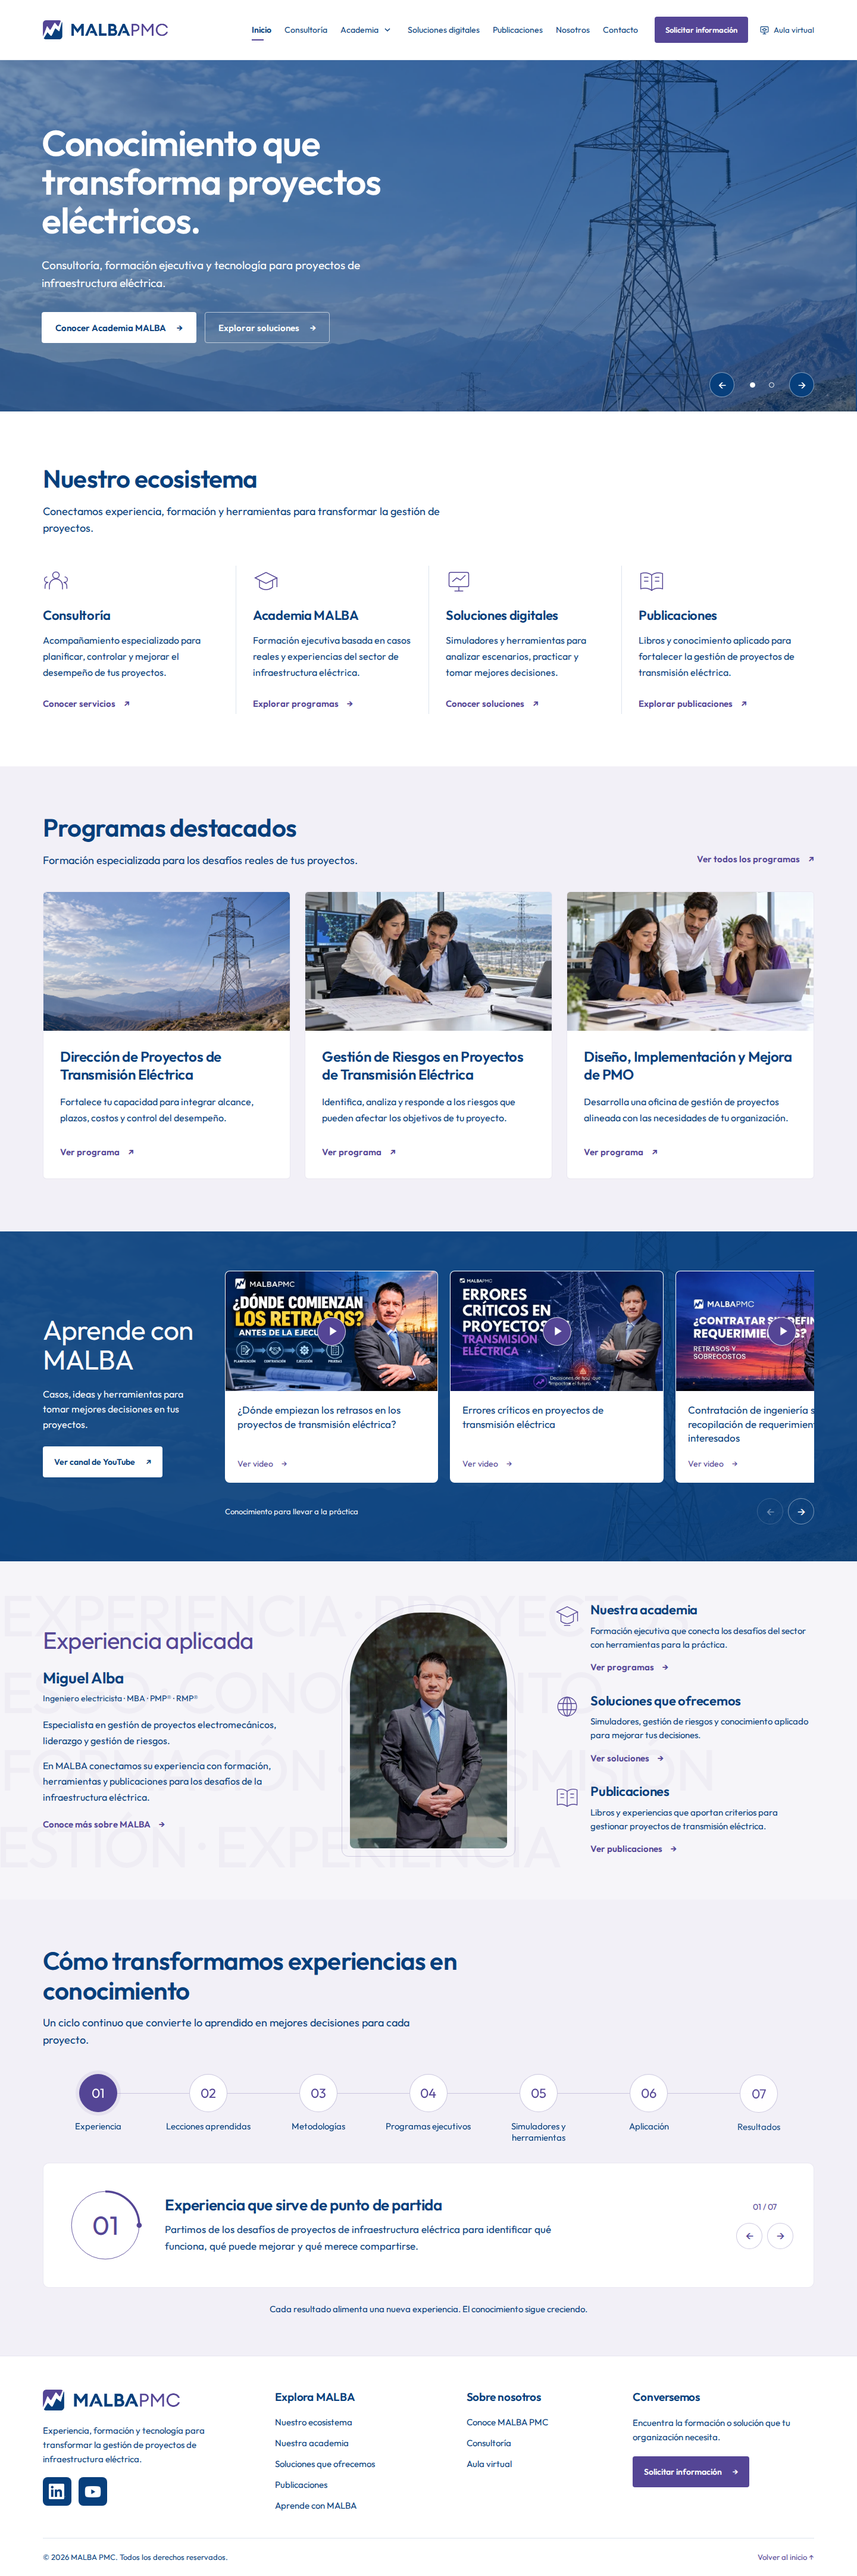
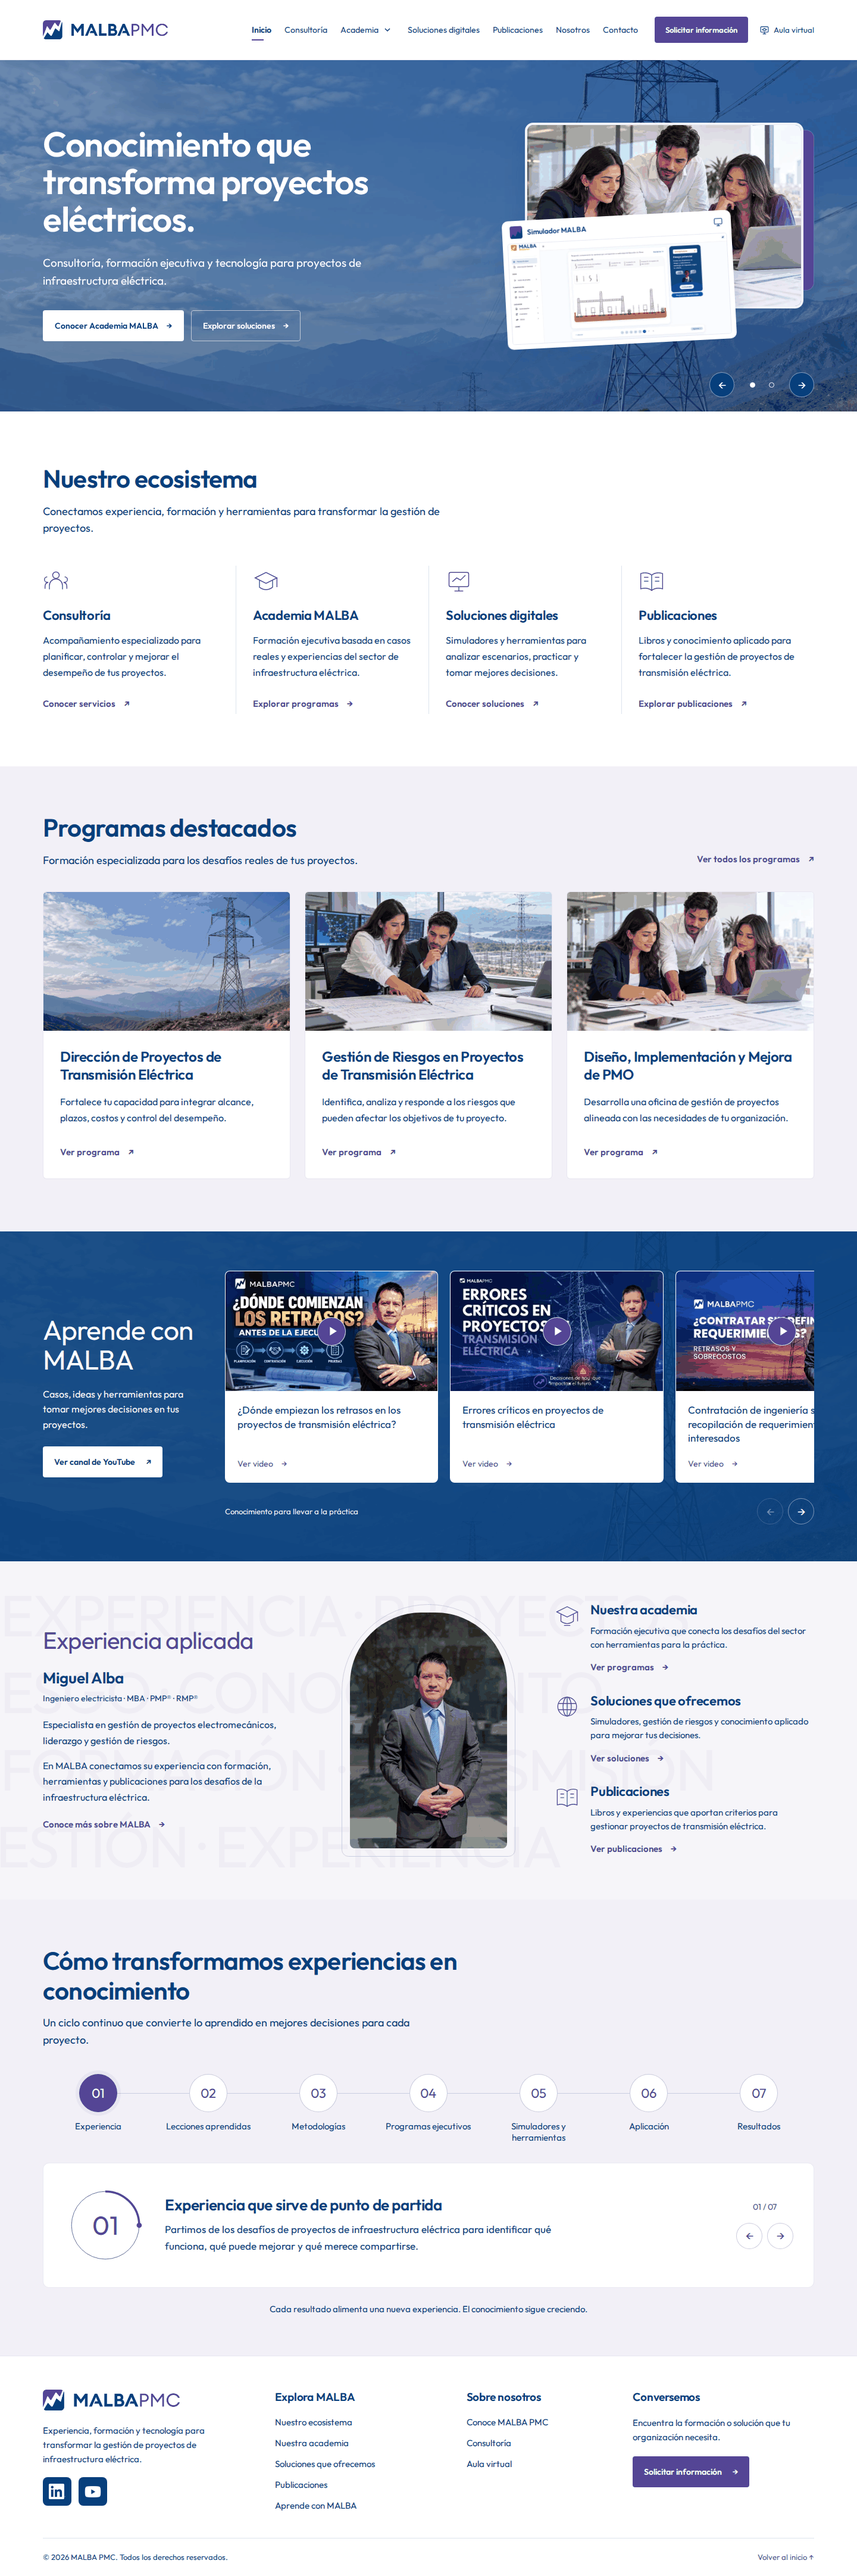
Add a visual showcase to the MALBA homepage hero

diff --git a/home-sections.css b/home-sections.css
@@ -894,3 +894,50 @@ body:has(#video-dialog[open]) { overflow: hidden; }
   .footer-contact .button { margin-top: 6px; width: fit-content; max-width: 100%; }
   .footer-bottom { font-size: 12px; gap: 14px; flex-direction: column; align-items: flex-start; padding: 20px 0; }
 }
+/* Home hero: professional photography paired with the actual MALBA simulator. */
+.hero-with-showcase .hero-copy { display: grid; grid-template-columns: 1.18fr 1fr; align-items: center; gap: 54px; }
+.hero-with-showcase .hero-copy-inner { min-width: 0; position: relative; z-index: 1; }
+.hero-with-showcase #hero-title { font-size: clamp(38px,4.05vw,60px); }
+.hero-with-showcase .hero-actions { gap: 12px; }
+.hero-with-showcase .hero-actions .button { font-size: 14px; padding: 0 19px; gap: 14px; }
+.hero-showcase { position: relative; width: 100%; max-width: 520px; height: 372px; justify-self: end; }
+.hero-showcase::before { content: ""; position: absolute; top: 12px; right: 0; width: 82%; height: 72%; background: var(--purple); border: 1px solid rgba(255,255,255,.22); border-radius: 14px; }
+.hero-showcase-scene { position: absolute; top: 0; right: 18px; width: 90%; aspect-ratio: 1.5; display: block; border: 4px solid rgba(255,255,255,.92); border-radius: 14px; overflow: hidden; box-shadow: 0 16px 35px rgba(7,63,124,.2); }
+.hero-showcase-scene img { display: block; width: 100%; height: 100%; object-fit: cover; object-position: center; }
+.hero-showcase-product { position: absolute; left: 0; bottom: 0; width: 74%; padding: 0 8px 8px; border-radius: 10px; background: var(--white); color: var(--blue); box-shadow: 0 18px 40px rgba(7,63,124,.24); transform: rotate(-3deg); transform-origin: center; animation: malba-showcase-arrive .65s ease both; }
+.hero-showcase-bar { display: flex; align-items: center; gap: 8px; height: 38px; padding: 0 5px; font-size: 12px; font-weight: 600; }
+.hero-showcase-mark { display: grid; place-items: center; width: 21px; height: 21px; border-radius: 4px; color: var(--white); background: var(--purple); }
+.hero-showcase-mark img { display: block; width: 100%; height: 100%; object-fit: contain; }
+.hero-showcase-screen { margin-left: auto; width: 17px; height: 17px; }
+.hero-showcase-product > img { display: block; width: 100%; height: auto; aspect-ratio: 1100/508; border: 1px solid rgba(7,63,124,.1); border-radius: 4px; }
+@keyframes malba-showcase-arrive { from { opacity: 0; transform: translateY(16px) rotate(-3deg); } to { opacity: 1; transform: translateY(0) rotate(-3deg); } }
+@media (max-width: 1130px) and (min-width: 761px) {
+  .hero-with-showcase .hero-copy { gap: 32px; grid-template-columns: 1.2fr 1fr; }
+  .hero-with-showcase #hero-title { font-size: clamp(32px,4.05vw,46px); }
+  .hero-showcase { height: 310px; }
+  .hero-with-showcase .hero-actions .button { font-size: 13px; padding: 0 14px; gap: 8px; min-height: 48px; }
+}
+@media (max-width: 900px) and (min-width: 761px) {
+  .hero-showcase { height: 260px; }
+  .hero-with-showcase .hero-copy { gap: 24px; }
+  .hero-with-showcase .hero-copy p { font-size: 17px; }
+}
+@media (max-width: 760px) {
+  .hero-with-showcase .hero-copy { grid-template-columns: 1fr; gap: 24px; padding-top: 38px; padding-bottom: 76px; }
+  .hero-with-showcase #hero-title { font-size: clamp(26px,7vw,48px); }
+  .hero-with-showcase .hero-actions { margin-top: 24px; }
+  .hero-with-showcase .hero-actions .button { font-size: 13px; padding: 0 14px; gap: 10px; min-height: 46px; }
+  .hero-showcase { height: 185px; max-width: 390px; justify-self: center; }
+  .hero-showcase-scene { width: 64%; right: 4px; aspect-ratio: 1.4; border-width: 3px; border-radius: 10px; }
+  .hero-showcase::before { width: 60%; height: 76%; top: 10px; right: 0; border-radius: 10px; }
+  .hero-showcase-product { width: 62%; max-width: 230px; bottom: 0; left: 4px; border-radius: 8px; padding: 0 6px 6px; }
+  .hero-showcase-bar { height: 29px; font-size: 10px; gap: 6px; }
+  .hero-showcase-mark { width: 17px; height: 17px; }
+  .hero-showcase-screen { width: 14px; height: 14px; }
+}
+@media (max-width: 359px) {
+  .hero-showcase { height: 160px; }
+}
+@media (prefers-reduced-motion: reduce) {
+  .hero-showcase-product { animation: none; }
+}

diff --git a/index.html b/index.html
@@ -163,7 +163,7 @@
           aria-label="Desliza para explorar el banner"
         >
           <section
-            class="hero hero-slide"
+            class="hero hero-slide hero-with-showcase"
             role="group"
             aria-roledescription="diapositiva"
             aria-label="1 de 2: MALBA PMC"
@@ -187,6 +187,16 @@
                     >Conocer Academia MALBA <span aria-hidden="true">→</span></a
                   >
                   <a class="button button-outline" href="#soluciones">Explorar soluciones <span aria-hidden="true">→</span></a>
+                </div>
+              </div>
+              <div class="hero-showcase" aria-hidden="true">
+                <picture class="hero-showcase-scene">
+                  <source media="(max-width: 760px)" srcset="assets/programs/pmo-480.webp">
+                  <img src="assets/programs/pmo-960.webp" width="960" height="540" alt="" decoding="async">
+                </picture>
+                <div class="hero-showcase-product">
+                  <div class="hero-showcase-bar"><span class="hero-showcase-mark"><img src="assets/favicon.png" width="21" height="21" alt="" decoding="async"></span><span>Simulador MALBA</span><svg class="hero-showcase-screen" viewBox="0 0 24 24" fill="none" stroke="currentColor" stroke-width="1.5"><rect x="3" y="4" width="18" height="13" rx="2"/><path d="M8 21h8m-4-4v4"/></svg></div>
+                  <img src="assets/academia/simulador.webp" width="1100" height="508" alt="" decoding="async">
                 </div>
               </div>
             </div>

diff --git a/docs/VALIDATION.md b/docs/VALIDATION.md
@@ -10,3 +10,7 @@ Submenú con fotografías, títulos y descripciones: probado con hover, tránsit
 ### Rediseño de “Por qué MALBA PMC”
 
 Composición de dos columnas: título y cifras a la izquierda; seis beneficios visibles en un único panel a la derecha. Se retiró la navegación por pasos. En celular el panel usa dos columnas y pasa a una columna en pantallas inferiores a 360 px. Verificados los tres detalles a 1440, 1024, 768, 390, 360 y 320 px: sin desbordamiento, textos truncados, recursos locales faltantes ni errores JavaScript. Los seis beneficios permanecen visibles con JavaScript desactivado. Las pestañas de competencias continúan funcionando. Capturas actualizadas de Dirección y Riesgos.
+
+### Banner de inicio: fotografía y simulador
+
+Se añadió una composición con fotografía de profesionales y captura real del simulador, reutilizando recursos WebP locales de alta resolución. Mantiene el fondo y la capa azul configurada. Revisado a 1920, 1440, 1131, 1024, 900, 768, 760, 390, 360 y 320 px: título de tres líneas, botones libres de superposiciones y sin desbordamiento de página. La composición se compacta en celular. Comprobados el cambio al banner del libro y su regreso, las diapositivas inactivas fuera del foco, los recursos locales y la preferencia de movimiento reducido. Capturas de home actualizadas.
